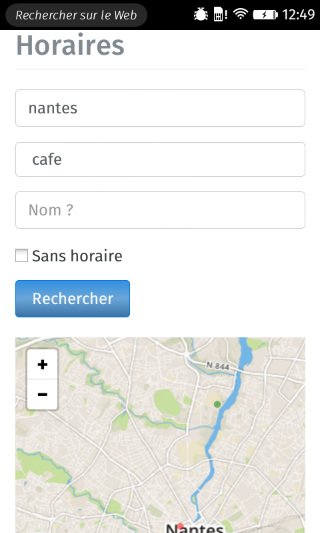
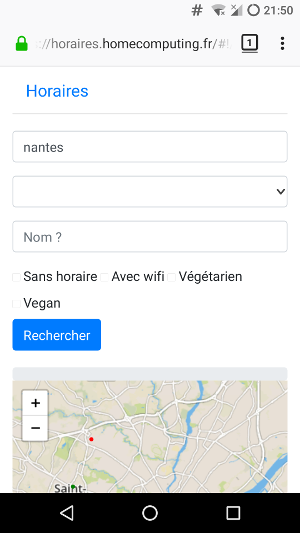
Display opening hours as timeline

diff --git a/web/js/controllers.js b/web/js/controllers.js
@@ -1,6 +1,6 @@
 'use strict';
 
-function SearchController($scope, $http, $routeParams, $location, localStorageService)
+function SearchController($scope, $http, $routeParams, $location, localStorageService, $sce)
 {
     if (typeof $routeParams.where === 'undefined') {
         $scope.where = '';
@@ -57,6 +57,10 @@ function SearchController($scope, $http, $routeParams, $location, localStorageSe
     $scope.allNodes = [];
     $scope.progress = 0;
     $scope.searching = false;
+
+    $scope.timeline = function(node) {
+        return $sce.trustAsHtml(timeline(node));
+    };
 
     $scope.search = function () {
         var url = '/' + $scope.where + '/' + $scope.type + '/' + $scope.what;
@@ -128,7 +132,7 @@ function SearchController($scope, $http, $routeParams, $location, localStorageSe
         localStorageService.set('favorites', favorites);
     };
 }
-SearchController.$inject = ['$scope', '$http', '$routeParams', '$location', 'localStorageService'];
+SearchController.$inject = ['$scope', '$http', '$routeParams', '$location', 'localStorageService', '$sce'];
 
 function initMap($scope)
 {
@@ -340,7 +344,6 @@ function updateNodes($scope, $http, box, localStorageService)
                     lon: node.lon,
                     name: typeof node.tags.name !== 'undefined' ? node.tags.name : node.tags.amenity,
                     amenity: node.tags.amenity,
-                    opening_hours: node.tags.opening_hours,
                     phone: node.tags.phone,
                     state: getState(node),
                     icon: getIcon(node),
@@ -348,6 +351,7 @@ function updateNodes($scope, $http, box, localStorageService)
                     vegan: node.tags['diet:vegan'] === 'yes',
                     wifi: node.tags['internet_access'] === 'wlan',
                     favorite: is_favorite(localStorageService, node),
+                    tags: node.tags,
                 });
             });
         }
@@ -427,6 +431,150 @@ function getState(node)
     }
 
     return state;
+}
+
+function timeline(node)
+{
+    var content = '';
+    var now = new Date();
+    var it = getOpening(node);
+    var date = it.getDate();
+    var days = [
+        'Lundi',
+        'Mardi',
+        'Mercredi',
+        'Jeudi',
+        'Vendredi',
+        'Samedi',
+        'Dimanche',
+    ];
+
+    content += `
+<div class="container legend">
+    <div class="row">
+        <span class="day col-lg-1"></span>
+
+        <div class="col">`;
+
+    for (var i = 0; i < 24; i++) {
+        var classes = [];
+
+        if (i % 5 !== 0) {
+            classes.push('label');
+        }
+
+        if (i === now.getHours()) {
+            classes.push('font-weight-bold');
+        }
+        else {
+            classes.push('text-muted');
+        }
+
+        content += `<span class="${classes.join(' ')}">${formatNumber(i)}</span>`;
+    }
+
+    content += `</div>
+    </div>
+</div>`;
+
+    for (var i = 0; i < 7; i++) {
+        var classes = ['day', 'col-lg-1'];
+
+        it.setDate(date)
+
+        if (i === now.getDay()) {
+            classes.push('font-weight-bold');
+        }
+        else {
+            classes.push('text-muted');
+        }
+
+        content += `
+<div class="container">
+    <div class="row">
+        <span class="${classes.join(' ')}">
+            ${days[i][0]}<span class="label">${days[i].substring(1)}</span>
+        </span>
+        <div class="col">
+            <div class="progress">`;
+
+        var is_open = it.getState();
+        var curdate = date;
+        var prevdate = date;
+
+        while (it.advance() && curdate.getTime() - date.getTime() < 24 * 60 * 60 * 1000) {
+            curdate = it.getDate();
+
+            var from = prevdate.getTime() - date.getTime();
+            var to = curdate.getTime() - date.getTime();
+
+            if (to > 24 * 60 * 60 * 1000) {
+                to = 24 * 60 * 60 * 1000;
+            }
+
+            from *= 100 / 1000 / 60 / 60 / 24;
+            to *= 100 / 1000 / 60 / 60 / 24;
+
+            var size = to - from;
+            var color = is_open ? "bg-success" : "bg-danger";
+            var legend = (is_open) ? formatTime(prevdate) + ' - ' + formatTime(curdate) : '';
+            content += `<div
+                role="progressbar"
+                style="width: ${size}%;"
+                aria-valuenow="${size}"
+                aria-valuemin="0"
+                aria-valuemax="100"
+                class="progress-bar ${color}"
+                title="${legend}"
+            ><span class="${size < 11 ? 'd-lg-none' : ''}">${legend}</span></div>`;
+
+            prevdate = curdate;
+            is_open = it.getState();
+        }
+
+        content += `
+            </div>
+        </div>
+    </div>
+</div>`;
+
+        date.setDate(date.getDate() + 1);
+    }
+
+    return content;
+}
+
+function formatTime(date)
+{
+    return formatNumber(date.getHours()) + ':' + formatNumber(date.getMinutes());
+}
+
+function formatNumber(n)
+{
+    return (n < 10 ? '0' : '') + n;
+}
+
+function getOpening(node)
+{
+    var opening  = new opening_hours(node.tags.opening_hours, {
+        lat: location.lat,
+        lon: location.lon,
+        address: {
+            country_code: 'fr',
+        },
+    });
+
+    var today = new Date();
+    return opening.getIterator(today.beginOfWeek());
+}
+
+Date.prototype.beginOfWeek = function () {
+    return new Date(
+        this.getFullYear(),
+        this.getMonth(),
+        this.getDate() - 7 + this.getDay(),
+        0, 0, 0
+    );
 }
 
 function getIcon(node)

diff --git a/web/partials/search.html b/web/partials/search.html
@@ -66,18 +66,22 @@
                 <span ng-if="node.vegetarian || node.vegan" class="float-right" title="Végétarien">V</span>
             </span>
         </div>
-        <div>{{ node.opening_hours }}</div>
-        <div ng-if="node.phone">
-            <a href="tel:{{ node.phone }}">
-                <span class="oc-telephone"></span>
-                {{ node.phone }}
-            </a>
-        </div>
-        <div>
-            <a href="geo:{{ node.lat }},{{ node.lon }}">
-                <span class="oc-guidepost"></span>
-                {{ node.lat }}, {{ node.lon }}
-            </a>
+        <div class="detail">
+            <div ng-bind-html="timeline(node)" class="timeline"></div>
+            <div>
+                <div ng-if="node.phone">
+                    <a href="tel:{{ node.phone }}">
+                        <span class="oc-telephone"></span>
+                        <span class="label">{{ node.phone }}</span>
+                    </a>
+                </div>
+                <div>
+                    <a href="geo:{{ node.lat }},{{ node.lon }}">
+                        <span class="oc-guidepost"></span>
+                        <span class="label">{{ node.lat }}, {{ node.lon }}</span>
+                    </a>
+                </div>
+            </div>
         </div>
     </li>
 </ul>

diff --git a/web/css/main.css b/web/css/main.css
@@ -41,6 +41,55 @@ ul#list {
     background-color: rgb(222, 242, 222);
 }
 
+#list .detail {
+    display: flex;
+    width: 100%;
+}
+
+#list .detail .timeline {
+    flex-grow: 1;
+}
+
+#list .detail .timeline .row {
+    align-items: center;
+}
+
+#list .detail .timeline .day {
+    font-size: 1rem;
+    margin-right: 1rem;
+}
+
+#list .detail .timeline .legend .col {
+    display: flex;
+}
+
+#list .detail .timeline .legend .col span {
+    border-left: 1px solid rgba(0, 0, 0, 0.15);
+    flex-grow: 1;
+    font-size: 1rem;
+}
+
+@media (max-width: 990px) {
+    #list .detail .label {
+        display: none;
+    }
+
+    #list .detail .timeline .day {
+        margin-right: 0;
+        padding: 0;
+        width: .1rem;
+    }
+
+    #list .detail .timeline .progress-bar {
+        overflow: visible;
+        white-space: nowrap;
+    }
+
+    #list .detail .timeline .progress-bar.bg-success {
+        z-index: 10;
+    }
+}
+
 .help .tooltips {
     display: none;
     position: absolute;

diff --git a/web/index.html b/web/index.html
@@ -17,6 +17,7 @@
         <script src="lib/angular/angular.min.js"></script>
         <script src="lib/angular-route/angular-route.min.js"></script>
         <script src="lib/angular-resource/angular-resource.min.js"></script>
+        <script src="lib/angular-sanitize/angular-sanitize.min.js"></script>
         <script src="lib/angular-local-storage/dist/angular-local-storage.min.js"></script>
         <script src="lib/opening_hours.js/opening_hours.js"></script>
         <script src="lib/leaflet/dist/leaflet.js"></script>

diff --git a/web/js/app.js b/web/js/app.js
@@ -1,6 +1,6 @@
 'use strict';
 
-var app = angular.module('opening-hours', ['ngRoute', 'ngResource', 'LocalStorageModule']);
+var app = angular.module('opening-hours', ['ngRoute', 'ngResource', 'LocalStorageModule', 'ngSanitize']);
 
 app.config(['$routeProvider', function($routeProvider) {
     $routeProvider.when('/about', {
